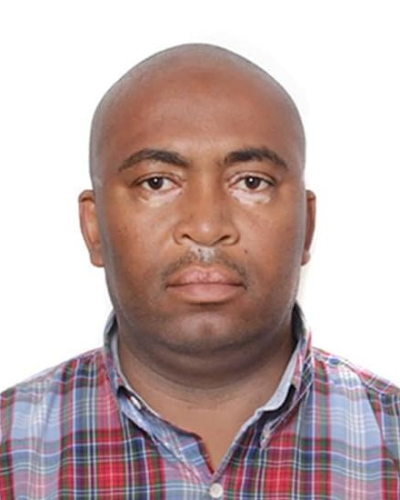
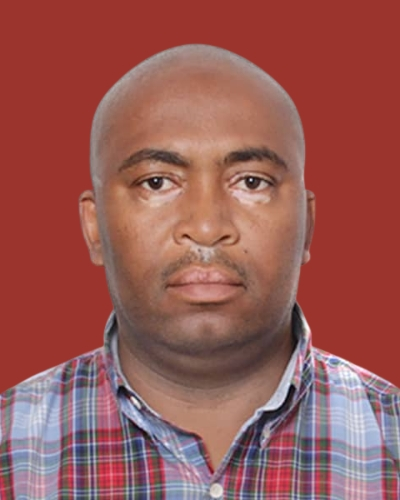
Finial touches

diff --git a/index.html b/index.html
@@ -405,7 +405,7 @@
 					<div class="col-lg-3 col-6 team-wrap">
 						<div class="team-info text-center">
 							<div class="column position-relative">
-								<a href="#url"><img src="images/team1.jpg" alt="" class="img-fluid team-image"></a>
+								<a href="#url"><img src="images/team5.jpg" alt="" class="img-fluid team-image"></a>
 							</div>
 							<div class="column">
 
@@ -426,12 +426,85 @@
 						</div>
 					</div>
 					<!-- end team member -->
+                    <div class="col-lg-3 col-6 team-wrap">
+						<div class="team-info text-center">
+							<div class="column position-relative">
+								<a href="#url"><img src="images/team6.jpg" alt="" class="img-fluid team-image"></a>
+							</div>
+							<div class="column">
 
+								<h3 class="name-pos"><a href="#url">Le Bon Banza</a></h3>
+								<p>Electrical Chief Manager</p>
+								<div class="social">
+									<div class="social-left">
+										<a href="#facebook" class="facebook"><span class="fa fa-facebook"
+												aria-hidden="true"></span></a>
+										<a href="#twitter" class="twitter"><span class="fa fa-twitter"
+												aria-hidden="true"></span></a>
+										<a href="#linkedin"><span class="fa fa-linkedin" aria-hidden="true"></span></a>
+										<a href="#google"><span class="fa fa-google-plus" aria-hidden="true"></span></a>
+									</div>
+								</div>
+							</div>
+						</div>
+					</div>
+					
+					<!-- end team member -->
+
+					<div class="col-lg-3 col-6 team-wrap">
+						<div class="team-info text-center">
+							<div class="column position-relative">
+								<a href="#url"><img src="images/team7.jpg" alt="" class="img-fluid team-image"></a>
+							</div>
+							<div class="column">
+
+								<h3 class="name-pos"><a href="#url">Mdm. Tabitha Bokele</a></h3>
+								<p>Financial manager</p>
+								<div class="social">
+									<div class="social-left">
+										<a href="#facebook" class="facebook"><span class="fa fa-facebook"
+												aria-hidden="true"></span></a>
+										<a href="#twitter" class="twitter"><span class="fa fa-twitter"
+												aria-hidden="true"></span></a>
+										<a href="#linkedin"><span class="fa fa-linkedin" aria-hidden="true"></span></a>
+										<a href="#google"><span class="fa fa-google-plus" aria-hidden="true"></span></a>
+									</div>
+								</div>
+							</div>
+						</div>
+
+					</div>
+					<!-- end team member -->
+					<!-- end team member -->
+
+					<div class="col-lg-3 col-6 team-wrap">
+						<div class="team-info text-center">
+							<div class="column position-relative">
+								<a href="#url"><img src="images/team7.jpg" alt="" class="img-fluid team-image"></a>
+							</div>
+							<div class="column">
+
+								<h3 class="name-pos"><a href="#url">Mdm.Marie Kama</a></h3>
+								<p>Lawyer Advisor</p>
+								<div class="social">
+									<div class="social-left">
+										<a href="#facebook" class="facebook"><span class="fa fa-facebook"
+												aria-hidden="true"></span></a>
+										<a href="#twitter" class="twitter"><span class="fa fa-twitter"
+												aria-hidden="true"></span></a>
+										<a href="#linkedin"><span class="fa fa-linkedin" aria-hidden="true"></span></a>
+										<a href="#google"><span class="fa fa-google-plus" aria-hidden="true"></span></a>
+									</div>
+								</div>
+							</div>
+						</div>
+					</div>
+                    
 					<div class="col-lg-3 col-6 team-wrap">
 
 						<div class="team-info text-center">
 							<div class="column position-relative">
-								<a href="#url"><img src="images/team2.jpg" alt="" class="img-fluid team-image"></a>
+								<a href="#url"><img src="images/team7.jpg" alt="" class="img-fluid team-image"></a>
 							</div>
 							<div class="column">
 
@@ -451,56 +524,7 @@
 							</div>
 						</div>
 					</div>
-					<!-- end team member -->
-
-					<div class="col-lg-3 col-6 team-wrap">
-						<div class="team-info text-center">
-							<div class="column position-relative">
-								<a href="#url"><img src="images/team3.jpg" alt="" class="img-fluid team-image"></a>
-							</div>
-							<div class="column">
-
-								<h3 class="name-pos"><a href="#url">Mdm. Tabitha Bokele</a></h3>
-								<p>Marketing Manager</p>
-								<div class="social">
-									<div class="social-left">
-										<a href="#facebook" class="facebook"><span class="fa fa-facebook"
-												aria-hidden="true"></span></a>
-										<a href="#twitter" class="twitter"><span class="fa fa-twitter"
-												aria-hidden="true"></span></a>
-										<a href="#linkedin"><span class="fa fa-linkedin" aria-hidden="true"></span></a>
-										<a href="#google"><span class="fa fa-google-plus" aria-hidden="true"></span></a>
-									</div>
-								</div>
-							</div>
-						</div>
-
-					</div>
-					<!-- end team member -->
-					<!-- end team member -->
-
-					<div class="col-lg-3 col-6 team-wrap">
-						<div class="team-info text-center">
-							<div class="column position-relative">
-								<a href="#url"><img src="images/team4.jpg" alt="" class="img-fluid team-image"></a>
-							</div>
-							<div class="column">
-
-								<h3 class="name-pos"><a href="#url">Mdm.Marie Kama</a></h3>
-								<p>Lawyer Advisor</p>
-								<div class="social">
-									<div class="social-left">
-										<a href="#facebook" class="facebook"><span class="fa fa-facebook"
-												aria-hidden="true"></span></a>
-										<a href="#twitter" class="twitter"><span class="fa fa-twitter"
-												aria-hidden="true"></span></a>
-										<a href="#linkedin"><span class="fa fa-linkedin" aria-hidden="true"></span></a>
-										<a href="#google"><span class="fa fa-google-plus" aria-hidden="true"></span></a>
-									</div>
-								</div>
-							</div>
-						</div>
-					</div>
+					
 				</div>
 			</div>
 		</div>

diff --git a/services.html b/services.html
@@ -2,7 +2,7 @@
 <html lang="zxx">
 
 <head>
-	<title>SCHADDACKS Group Limited | Home </title>
+	<title>SCHADDACKS Group Limited | Services </title>
 	<!-- Meta tag Keywords -->
 	<meta name="viewport" content="width=device-width, initial-scale=1">
 	<meta charset="UTF-8" />
@@ -110,7 +110,6 @@
 							<li ><a href="index.html">Home</a></li>
 							<li><a href="#about" class="scroll">About</a></li>
 							<li class="active"><a href="#services" class="scroll">Services</a></li>
-							<li><a href="#testi" class="scroll">Testimonials</a></li>
 							<li><a href="#contact" class="scroll">Contact</a></li>
 						</ul>
 					</nav>
@@ -143,13 +142,7 @@
 						transporting Goods,or Commodities National and sub Saharan Africa Countries.
 						LUBUMBASHI,KOLWEZI,LIKASI to Zambia,Tanzania,Kenya and South Africa.
 					</p>
-					<p> The Company is incorporating for Warehousing, Logistics and Transportation for various
-						customers and is dealing in various types of goods and services for Warehousing, Inplant
-						Logistis and Transportation. The company will soon have of a big network of Branches /
-						Warehouses / Fleets and elaborate ground infrastructure for undertaking multiple
-						logistics related operations anywhere in the country.
-					</p>
-					<!--<button style="padding: 11px 30px;
+					<button style="padding: 11px 30px;
 					border: none;
 					color: #95332e;
 					border-radius: 4px;
@@ -180,11 +173,11 @@
 							</p>
 						</div>
 					</div>
-				</div>-->
-				<!--<div class="col-lg-6 about-right">
-					<img src="images/4.jpg" class="img-fluid" alt="" />-->
+				</div>
+				<div class="col-lg-6 about-right">
+					<img src="images/4.jpg" class="img-fluid" alt="" />
 					<!-- The Tabs -->
-					<!--<div class="tab">
+					<div class="tab">
 						<button class="tablinks" onclick="openCity(event, 'London')" style="color:#95332e ;">(QEHSS) Policy</button>
 						<button class="tablinks" onclick="openCity(event, 'Paris')"  style="color:#95332e ;">Customer Satisfaction</button>
 						<button class="tablinks" onclick="openCity(event, 'Tokyo')"  style="color:#95332e ;">Compliance</button>
@@ -248,7 +241,7 @@
 					</div>
 				</div>
 			</div>
-		</div>-->
+		</div>
 		
 	</section>
 
@@ -282,17 +275,7 @@
 					well as providing significant cultural advantages. They are critical to national augmentation and
 					enhance escalation. Furthermore, a road network is critical in the battle against deprivation, since
 					it provides exposure to job, economic,health, and academic facilities.</p>
-					<p> Roads connect various populations and regions,promoting commercial and cultural
-						prosperity. The Democratic republic of Congo is not staying behind about the above
-						mentioned opportunities, being a Country situated in Central Africa ,surrounded by Nine
-						neighbors , the government has decided to develop the road infrastructure which will
-						allow safety circulation of transport to grow. SCHADDRACKS Group Limited DRC "SGLD"
-						taken this opportunity to execute the operational procedures that are essential to
-						complete the work, and to contribute to road infrastructure development by seeking
-						abroad partners with more experiences , able to share their experiences, knowledges with
-						us,as well as the road infrastructure business is widely opened
-					</p>
-				<!--<button style="padding: 11px 30px;
+				<button style="padding: 11px 30px;
 				border: none;
 				color: #95332e;
 				border-radius: 4px;
@@ -326,7 +309,7 @@
 					</div>
 				</div>
 			</div>
-		</div>-->
+		</div>
 
 		</div>
 	</section>
@@ -385,6 +368,13 @@
 				</div>
 				<p class="my-sm-4 mt-2 mb-4">Supplying and Distribution of Devices, such laptops,cell phones, network
 					service provider</p>
+					<p class="my-sm-4 mt-2 mb-4">We also provide IT support from</p>
+					<ul>
+						<li>Websites</li>
+						<li>Desktop Applications</li>
+						<li>Mobile Applications</li>
+						<li>Migration to the cloud with Azure, Google Cloud and AWS</li>
+					</ul>
 			</div>
 
 		</div>
@@ -415,18 +405,7 @@
 				<p class="my-sm-4 mt-2 mb-4">SCHADDRACKS Group Limited DRC, has some special services, which can
 					contribute to the
 					city infrastructure modernization, among them:</p>
-					<p>• CITY CLOCKS IMPLATATION, with our different partners from abroad, we are able to
-						install City Clocks, on THE GRAND- PLACE such as universities, schools, and so on, these
-						city clocks to make attractive the public place, Then its will serve the population to
-						read the times, to improve their agenda, also help some people to be adapted to
-						punctuality mind, to better manage the notion of time, as saying "TIME IS MONEY".</p>
-					<p>•TRAFFIC LIGHT SECURITY SYSTEM
-						Having also Partners able to install the new traffic light security equipment, which can
-						help the country to fight against road indisciplines, vehicles hijacking, help
-						pedestrians to cross the road safely, identify each vehicle passage with the help of the
-						HD cameras installed
-					</p>
-				<!--<button style="padding: 11px 30px;
+				<button style="padding: 11px 30px;
 				border: none;
 				color: #95332e;
 				border-radius: 4px;
@@ -461,7 +440,7 @@
 					</div>
 				</div>
 			</div>
-		</div>-->
+		</div>
 
 		</div>
 	</section>
